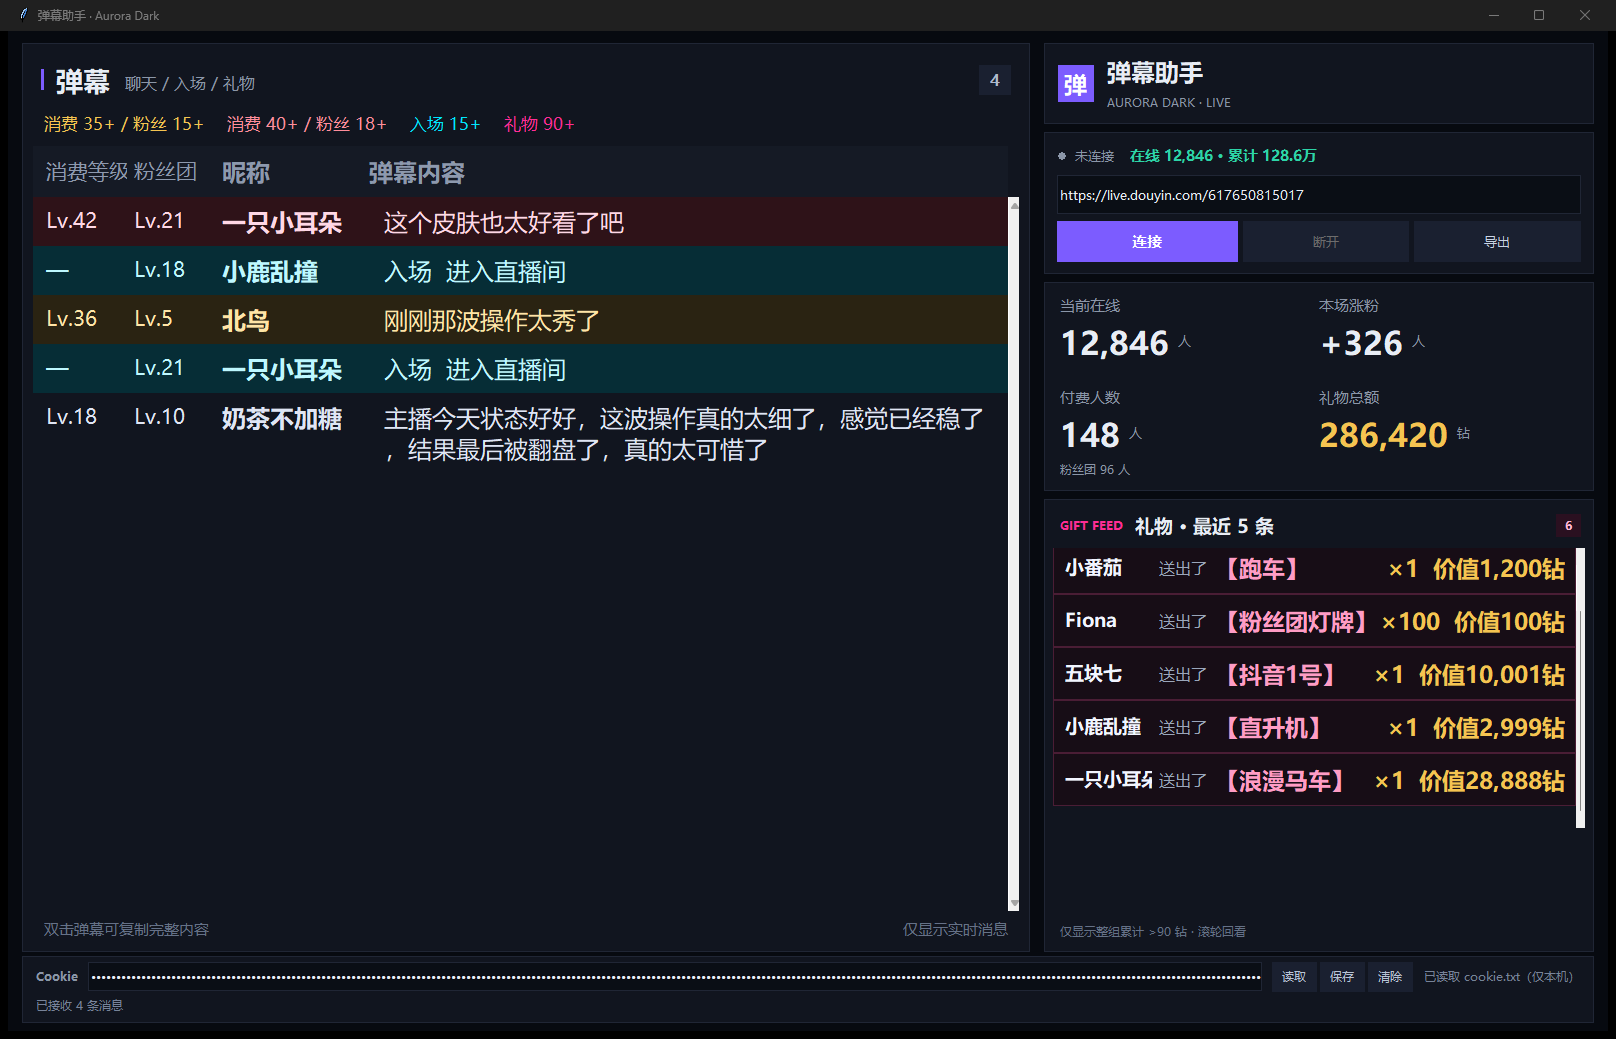
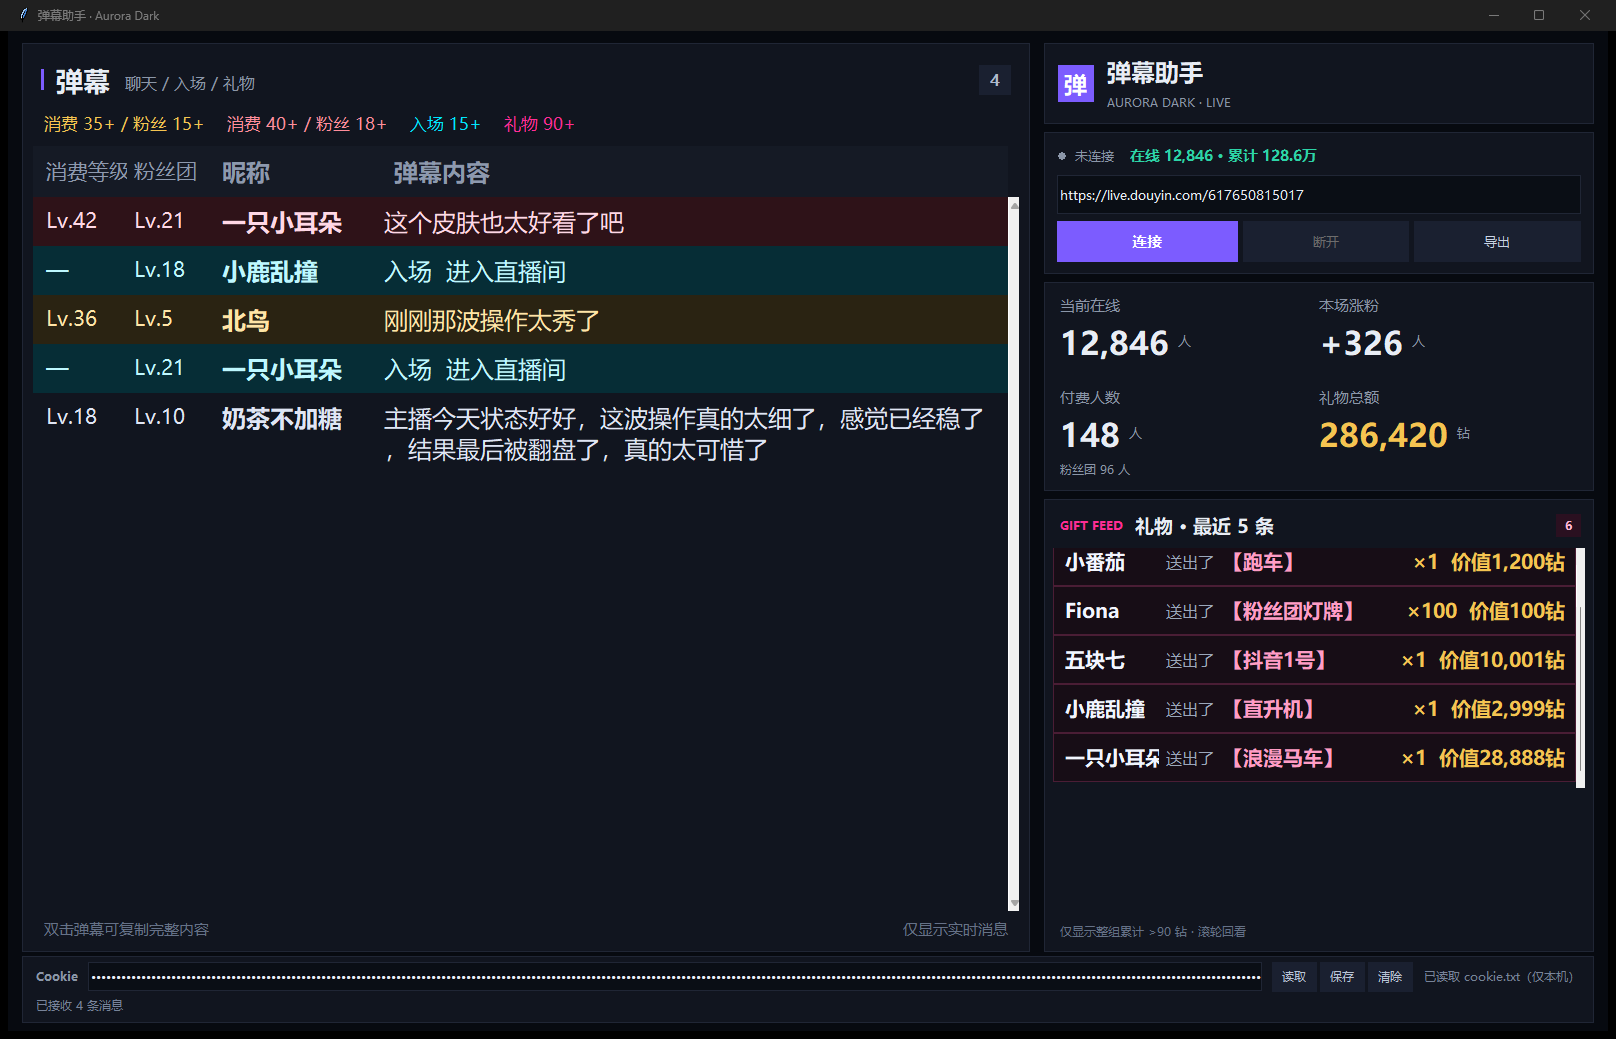
Reduce chat UI jank and set gift text to 15px

Changed region(s): [[0.6498, 0.5236, 0.9901, 0.8008], [0.2166, 0.154, 0.3094, 0.1848]]

diff --git a/aurora_gui.py b/aurora_gui.py
@@ -96,6 +96,7 @@ class AuroraApp:
         self.gift_rows: dict[str, dict] = {}
         self.gift_order: list[str] = []
         self.chat_rows: list[dict] = []
+        self._chat_scroll_pending = False
         self._pv_text = ""
         self._online_text = "--"
         self._last_auto_export_events = -1
@@ -394,7 +395,7 @@ class AuroraApp:
         gift_body = tk.Frame(gift_card, bg=CARD)
         gift_body.pack(fill="x", padx=8, pady=(0, 8))
         self.gift_canvas = tk.Canvas(
-            gift_body, bg=CARD, height=280, highlightthickness=0, borderwidth=0, yscrollincrement=30
+            gift_body, bg=CARD, height=240, highlightthickness=0, borderwidth=0, yscrollincrement=30
         )
         self.gift_scroll = tk.Scrollbar(
             gift_body, orient="vertical", command=self.gift_canvas.yview, width=9,
@@ -529,13 +530,23 @@ class AuroraApp:
             widget.bind("<Double-1>", lambda _e, t=content: self._copy_chat(text=t))
             widget.bind("<MouseWheel>", self._on_chat_wheel, add="+")
 
-        while len(self.chat_rows) > 500:
+        while len(self.chat_rows) > 250:
             old = self.chat_rows.pop(0)
             old["frame"].destroy()
 
         self.chat_count += 1
         self.chat_badge.configure(text=fmt_int(self.chat_count))
         self._hide_chat_placeholder()
+        self._schedule_chat_scroll()
+
+    def _schedule_chat_scroll(self):
+        if self._chat_scroll_pending:
+            return
+        self._chat_scroll_pending = True
+        self.root.after(120, self._scroll_chat_to_bottom)
+
+    def _scroll_chat_to_bottom(self):
+        self._chat_scroll_pending = False
         self.chat_canvas.update_idletasks()
         self._sync_chat_scroll()
         self.chat_canvas.yview_moveto(1.0)
@@ -1045,7 +1056,7 @@ class AuroraApp:
             text="",
             bg=bg,
             fg="#f2f5ff",
-            font=(FONT, 14, "bold"),
+            font=(FONT, 15, "bold"),
             anchor="w",
             width=7,
         )
@@ -1057,7 +1068,7 @@ class AuroraApp:
             text="",
             bg=bg,
             fg="#ff9cc5",
-            font=(FONT, 17, "bold"),
+            font=(FONT, 15, "bold"),
             anchor="w",
             width=10,
         )
@@ -1067,7 +1078,7 @@ class AuroraApp:
             text="",
             bg=bg,
             fg=GOLD,
-            font=(FONT, 17, "bold"),
+            font=(FONT, 15, "bold"),
             anchor="e",
             padx=0,
         )
@@ -1307,7 +1318,7 @@ class AuroraApp:
     # ------------------------------------------------------------------
     def drain_events(self):
         processed = 0
-        while processed < 300:
+        while processed < 80:
             try:
                 event = self.events.get_nowait()
             except queue.Empty:
